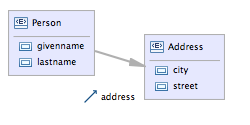
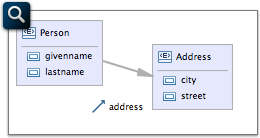
[website] thumbnails for xbase, xtend and integration

Changed region(s): [[0.0, 0.0, 1.0, 1.0], [0.616, 0.648, 0.812, 0.744]]

diff --git a/website/_index.html b/website/_index.html
@@ -120,7 +120,7 @@ trainings, consulting or support contracts delivered directly by the committers.
 		<div class="mid3content">
 			<h3>Modern expressions ... </h3>
 			<a class="inversealphahover gallery" rel="prettyPhoto[all]" title="Xbase Expression Library" href="http://vimeo.com/26150650"> 
-				<img src="images/feature2_quick_fix.png"/>
+				<img src="images/feature2_xbase1.png"/>
 			</a>
 			<p> 
 				Xbase supports everything you'd expect from a modern expression language. <b>Static typing, type inference, closures and operator overloading</b>
@@ -135,7 +135,7 @@ trainings, consulting or support contracts delivered directly by the committers.
 		<div class="right3content">
 			<h3> ... right within your DSL</h3>
 			<a class="inversealphahover gallery" rel="prettyPhoto[all]" title="Xbase embedded in a DSL" href="http://vimeo.com/26150627"> 
-				<img src="images/feature2_quick_fix.png"/>
+				<img src="images/feature2_xbase2.png"/>
 			</a>
 			<p> See what Xbase looks like when it is <b>embedded in a DSL</b>. <b>It's seamless!</b>
 			This screencast shows the example domain model language, which is shipped as part of Xtext.
@@ -160,7 +160,7 @@ trainings, consulting or support contracts delivered directly by the committers.
 		<div class="mid3content">
 			<h3>Template Expressions</h3>
 			<a class="inversealphahover gallery" rel="prettyPhoto[all]" title="Xtend - Template Expressions" href="http://vimeo.com/26150668"> 
-				<img src="images/xtend-templates.png"/>
+				<img src="images/feature2_template_expressions.png"/>
 			</a>
 			<p> 
 				Code generators make heavy use of <b>string concatenation</b>. Therefore they are usually implmented using a 
@@ -173,7 +173,7 @@ trainings, consulting or support contracts delivered directly by the committers.
 		<div class="right3content">
 			<h3>Polymorphic Dispatch</h3>
 			<a class="inversealphahover gallery" rel="prettyPhoto[all]" title="Xtend - Dispatch Methods" href="http://vimeo.com/26150791"> 
-				<img src="images/xtend-dispatch.png"/>
+				<img src="images/feature2_polymorphic_dispatch.png"/>
 			</a>
 			<p> When processing an in memory model in order to generate text out of it, you always have to do things based on the current models state or types.
 			Traditionaly people either wrote long instance-of cascades or added a cumbersome and invasive visitor API to their model.
@@ -230,7 +230,7 @@ trainings, consulting or support contracts delivered directly by the committers.
 		<div class="left3content">
 			<h3>Integration with Java and JDT</h3>
 			<a class="inversealphahover gallery" rel="prettyPhoto[all]" title="Screencast on Java and JDT integration" href="http://vimeo.com/26150627"> 
-				<img src="images/feature2_quick_fix.png"/>
+				<img src="images/feature2_xbase2.png"/>
 			</a>
 			<p>
 				DSLs are often used within a regular software development project. It's a good idea to
